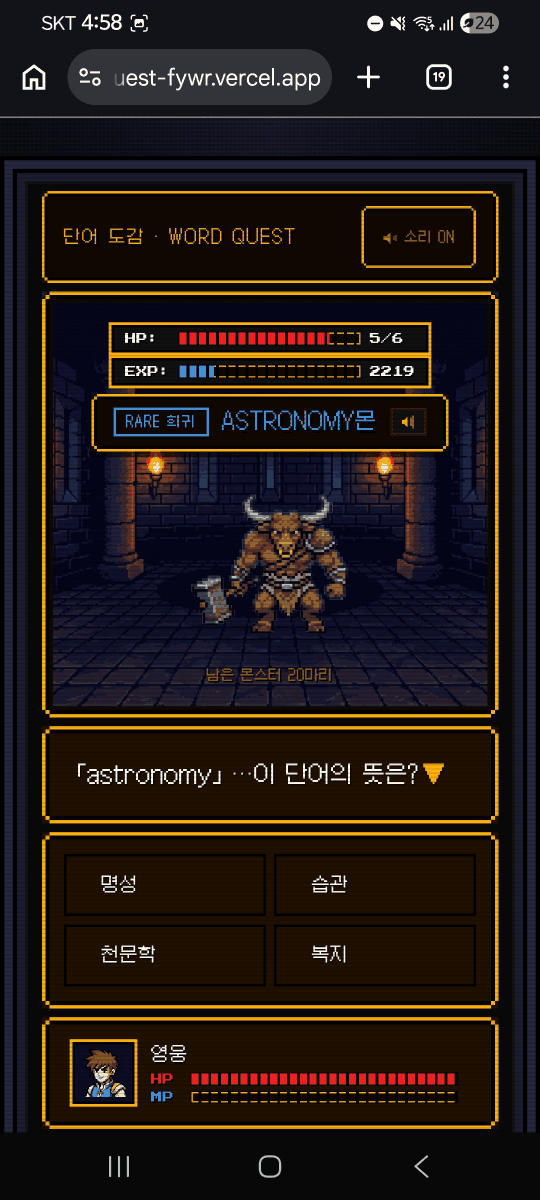
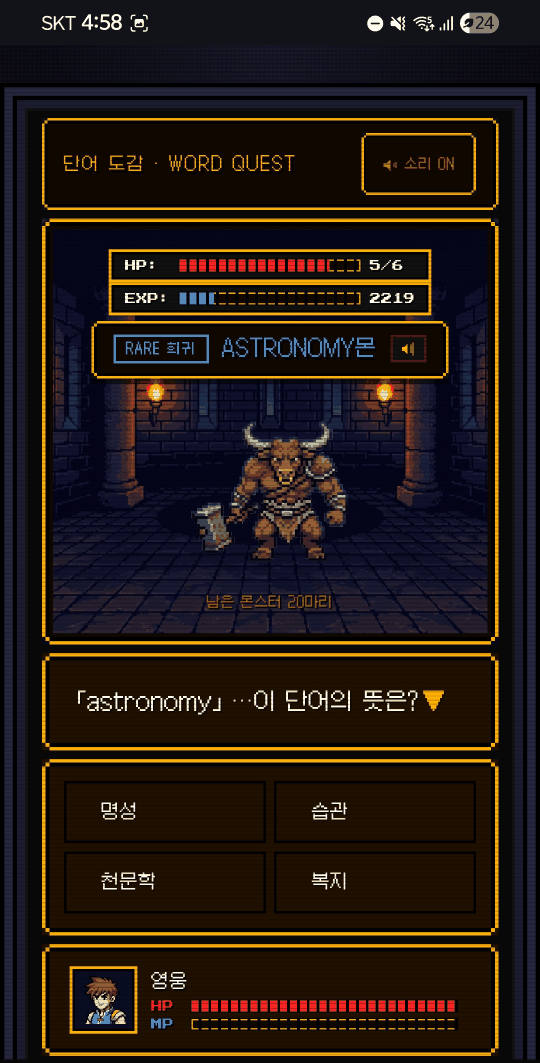
feat: 확인된 사실 반영 + 스크린샷 크롬 통일
운영자 확인 사항 세 가지를 넣고, 스크린샷 다섯 장의 크롬을 정리했다.

FAQ 두 칸을 채웠다.
- 광고·결제 유도 없음. 학부모 민원 1순위라 원장이 반드시 확인하는 항목이다.
- 학습 기록 내보내기는 아직 안 된다. 안 되는 것을 그대로 적고
  "필요하시면 말씀해 주세요, 요청이 있으면 만들어 넣겠습니다"로 이었다.
  못 하는 것을 숨기지 않는 편이 나머지 주장의 신뢰를 올린다.

학생 앱 주소가 확정되어 푸터 링크를 복구했다. 스크린샷 주소창에는
앞부분이 잘려 보였는데(word-q|uest-fywr) 운영자가 전체 주소를 확인해 줬다.
검증의 외부 도메인 화이트리스트에도 추가했다.

스크린샷은 전투 화면에만 브라우저 주소창이 있어 세 장이 다르게 보였다.
주소창을 도려내고 상태바와 앱 화면을 이어 붙였다. 나머지 네 장도 같은 높이가
되도록 안드로이드 내비게이션 바를 함께 걷어냈다. 이제 다섯 장 모두
상태바 + 앱 화면만 남는다. 원본 1080×2126 → 540×1063, 합계 423KB.
OG 이미지에서도 주소창이 사라졌다.

구매자 관점 점수 97 → 98. 남은 2점은 제3자 검증이라 9월 지표 슬롯 대기다.
스펙 검증 100/100 유지.

Claude-Session: https://claude.ai/code/session_01R7dK8o7SV8dhQMpVTcNaZK

diff --git a/index.html b/index.html
@@ -126,7 +126,7 @@
               <div class="slide" id="hero-slide-1" role="tabpanel" aria-label="선생님 대시보드">
                 <div class="slide__inner">
                   <div class="phone">
-                    <span class="phone__screen"><img src="assets/img/screen-dashboard.png" alt="선생님 대시보드 화면: 우리 반 최다 오답 TOP 10 단어 목록과 이번 주 반 랭킹" width="540" height="1200" loading="eager" decoding="async"></span>
+                    <span class="phone__screen"><img src="assets/img/screen-dashboard.png" alt="선생님 대시보드 화면: 우리 반 최다 오답 TOP 10 단어 목록과 이번 주 반 랭킹" width="540" height="1063" loading="eager" decoding="async"></span>
                   </div>
                   <p class="slide__caption">우리 반이 어디서 틀리는지 한눈에 봅니다</p>
                 </div>
@@ -135,7 +135,7 @@
               <div class="slide" id="hero-slide-2" role="tabpanel" aria-label="5분 세팅 화면">
                 <div class="slide__inner">
                   <div class="phone">
-                    <span class="phone__screen"><img src="assets/img/screen-setup.png" alt="선생님 세팅 화면: 엑셀에서 복사한 단어를 붙여넣고 반을 골라 배포하는 화면" width="540" height="1200" loading="lazy" decoding="async"></span>
+                    <span class="phone__screen"><img src="assets/img/screen-setup.png" alt="선생님 세팅 화면: 엑셀에서 복사한 단어를 붙여넣고 반을 골라 배포하는 화면" width="540" height="1063" loading="lazy" decoding="async"></span>
                   </div>
                   <p class="slide__caption">엑셀에서 붙여넣고 반만 고르면 배포됩니다</p>
                 </div>
@@ -183,21 +183,21 @@
     <div class="shots">
       <figure class="shot">
         <div class="phone">
-          <span class="phone__screen"><img src="assets/img/screen-battle.png" alt="학생 플레이 화면: astronomy 단어의 뜻을 네 개 보기 중에서 고르며 몬스터와 전투하는 장면" width="540" height="1200" loading="lazy" decoding="async"></span>
+          <span class="phone__screen"><img src="assets/img/screen-battle.png" alt="학생 플레이 화면: astronomy 단어의 뜻을 네 개 보기 중에서 고르며 몬스터와 전투하는 장면" width="540" height="1063" loading="lazy" decoding="async"></span>
         </div>
         <figcaption class="shot__label"><span class="shot__num">1</span>학생 플레이 화면 (몬스터 전투)</figcaption>
       </figure>
 
       <figure class="shot">
         <div class="phone">
-          <span class="phone__screen"><img src="assets/img/screen-dex.png" alt="포획 도감 화면: 잡은 몬스터가 등급별로 모이는 도감, 포획 진행률 표시" width="540" height="1200" loading="lazy" decoding="async"></span>
+          <span class="phone__screen"><img src="assets/img/screen-dex.png" alt="포획 도감 화면: 잡은 몬스터가 등급별로 모이는 도감, 포획 진행률 표시" width="540" height="1063" loading="lazy" decoding="async"></span>
         </div>
         <figcaption class="shot__label"><span class="shot__num">2</span>포획 / 도감</figcaption>
       </figure>
 
       <figure class="shot">
         <div class="phone">
-          <span class="phone__screen"><img src="assets/img/screen-class.png" alt="선생님 대시보드 화면: 학생별 연속 학습일, 정답률, 포획 수와 학습 히트맵" width="540" height="1200" loading="lazy" decoding="async"></span>
+          <span class="phone__screen"><img src="assets/img/screen-class.png" alt="선생님 대시보드 화면: 학생별 연속 학습일, 정답률, 포획 수와 학습 히트맵" width="540" height="1063" loading="lazy" decoding="async"></span>
         </div>
         <figcaption class="shot__label"><span class="shot__num">3</span>선생님 대시보드</figcaption>
       </figure>
@@ -532,6 +532,18 @@
       </details>
 
       <details class="faq__item">
+        <summary>광고나 결제 유도가 있나요?</summary>
+        <p>없습니다. 광고를 붙이지 않고, 학생에게 결제를 유도하는 화면도 없습니다.
+           아이들이 보는 화면에는 학습과 게임 요소만 있습니다.</p>
+      </details>
+
+      <details class="faq__item">
+        <summary>학습 기록을 엑셀로 내려받을 수 있나요?</summary>
+        <p>아직 안 됩니다. 지금은 화면에서 보는 것까지만 가능합니다.
+           필요하시면 말씀해 주세요 — 요청이 있으면 만들어 넣겠습니다.</p>
+      </details>
+
+      <details class="faq__item">
         <summary>학생 정보는 어떻게 다루나요?</summary>
         <p>학생의 학습 기록은 담당 선생님이 보시라고 있는 것입니다.
            이 페이지에 실린 화면도 학생 이름과 학교명을 모두 가려서 올렸습니다.
@@ -567,19 +579,7 @@
       </details>
     </div>
 
-    <!-- ═══ FAQ SLOT ══════════════════════════════════════════════════════
-         아래 두 가지는 사실 확인 후 주석을 풀어 넣으세요.
-         구매자가 자주 묻지만, 확인되지 않은 내용을 쓰면 이 페이지의 신뢰가 깨집니다.
 
-      <details class="faq__item">
-        <summary>광고나 결제 유도가 있나요?</summary>
-        <p>(예: 광고를 붙이지 않습니다. 학생에게 결제를 유도하는 화면도 없습니다.)</p>
-      </details>
-      <details class="faq__item">
-        <summary>학습 기록을 내보낼 수 있나요?</summary>
-        <p>(예: 반별 학습 기록을 엑셀로 내려받으실 수 있습니다.)</p>
-      </details>
-    ═══════════════════════════════════════════════════════════════════════ -->
   </div>
 </section>
 
@@ -680,11 +680,8 @@
         <li><a href="privacy.html">개인정보처리방침</a></li>
         <li><a href="mailto:ranha.projects@gmail.com">ranha.projects@gmail.com</a></li>
         <li><a href="https://www.instagram.com/r.xanha/" target="_blank" rel="noopener">Instagram @r.xanha</a></li>
-        <!-- TODO(배포 전): 학생용 앱의 실제 주소를 넣고 아래 줄의 주석을 푼다.
-             주소가 확정되기 전까지는 링크를 두지 않는다 — 없는 주소로 보내면 신뢰가 깎인다.
-             학생 앱 링크는 눈에 띄지 않게 푸터에만. 이 페이지의 목표는 문의다.
-        <li><a class="site-footer__student" href="학생앱-주소" target="_blank" rel="noopener">학생용 앱 바로가기</a></li>
-        -->
+        <!-- 학생 앱 링크는 눈에 띄지 않게 푸터에만 — 이 페이지의 목표는 문의다 -->
+        <li><a class="site-footer__student" href="https://word-quest-fywr.vercel.app/" target="_blank" rel="noopener">학생용 앱 바로가기</a></li>
       </ul>
     </div>
     <p class="site-footer__legal">© 2026 타이거오키드</p>

diff --git a/docs/VERIFICATION.md b/docs/VERIFICATION.md
@@ -216,8 +216,25 @@
 - 빠른 문구 칩이 34px 이라 터치 타깃 미달 → 44px.
 - 비교 섹션에서 쌍 안쪽(8px)과 쌍 사이(12px) 간격이 비슷해 짝으로 안 읽혔다 → 5px / 24px.
 
-## 남은 3점 (지금 페이지가 만들 수 없는 것)
+## 사실 확인 후 추가 (→ 98점)
 
-- **신뢰 2점** — 제3자 검증(선생님 코멘트·언론 보도)이 없다. 9월 `SEPT SLOT` 대기.
-- **의사결정 1점** — 광고 유무, 학습 기록 내보내기. 사실 확인이 필요해
-  `FAQ SLOT` 주석으로 자리만 만들어 두었다. 확인되면 주석을 풀면 된다.
+운영자 확인으로 `FAQ SLOT` 두 칸을 채웠다. 의사결정 정보 24 → **25**.
+
+- **광고·결제 유도 없음** — 학부모 민원 1순위라 원장이 반드시 확인하는 항목.
+- **학습 기록 내보내기 아직 안 됨** — 안 되는 것을 그대로 적었다.
+  "필요하시면 말씀해 주세요, 요청이 있으면 만들어 넣겠습니다"로 이었다.
+  못 하는 것을 숨기지 않는 편이 나머지 주장의 신뢰를 올린다.
+- 학생 앱 주소 확정 → 푸터 링크 복구, 검증 화이트리스트에 추가.
+
+**최종 구매자 관점 점수: 98 / 100**
+
+## 남은 2점 (지금 페이지가 만들 수 없는 것)
+
+- **신뢰 2점** — 제3자 검증(동료 교사 코멘트·언론 보도)이 없다. 9월 `SEPT SLOT` 대기.
+
+## 스크린샷 크롬 정리
+
+전투 화면에만 브라우저 주소창이 있어 세 장이 다르게 보였다. 주소창을 도려내고
+상태바와 앱 화면을 이어 붙였으며, 나머지 네 장도 같은 높이가 되도록 안드로이드
+내비게이션 바를 함께 걷어냈다. 원본 1080×2126 → 540×1063 로 통일.
+OG 이미지에서도 주소창이 사라졌다.

diff --git a/README.md b/README.md
@@ -77,8 +77,10 @@ npm run og             # tools/og-image.html → assets/img/og-image.png (1200×
 
 새 캡처로 바꿀 때 지킬 것:
 
-- **원본 1080×2400 → 정확히 1/2(540×1200)로 축소 후 256색 PNG.** 픽셀아트라
-  정수배 축소가 아니면 뭉개지고, 256색이면 사실상 무손실인데 용량이 1/3 됩니다.
+- **브라우저 주소창·안드로이드 내비게이션 바를 잘라내고 상태바 + 앱 화면만 남깁니다.**
+  5장 크기가 같아야 폰 목업 높이가 어긋나지 않습니다. 현재 기준은 원본 1080×2126.
+- **정확히 1/2(540×1063)로 축소 후 256색 PNG.** 픽셀아트라 정수배 축소가 아니면
+  뭉개지고, 256색이면 사실상 무손실인데 용량이 1/3 됩니다.
 - **개인정보를 반드시 가리고**, 히어로·3번 섹션의 "학생 이름과 학교명은 가렸습니다"
   문구를 유지하세요. 가릴 게 없는 캡처라면 그 문구를 지우면 됩니다.
 - **히어로에는 선생님 화면만.** 몬스터·게임 아트는 3번 섹션부터 (`npm run verify` 가 잡습니다).
